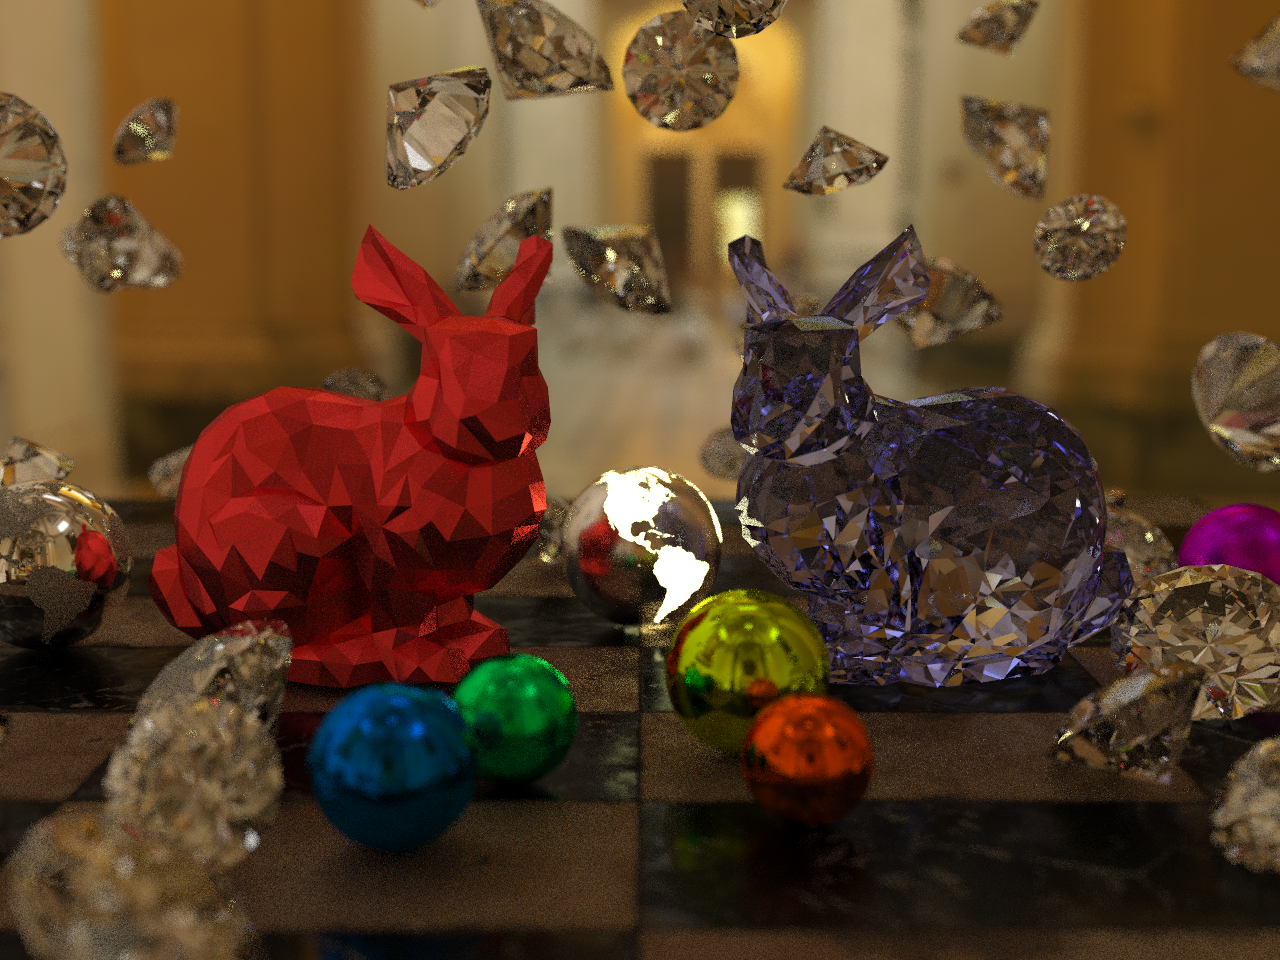
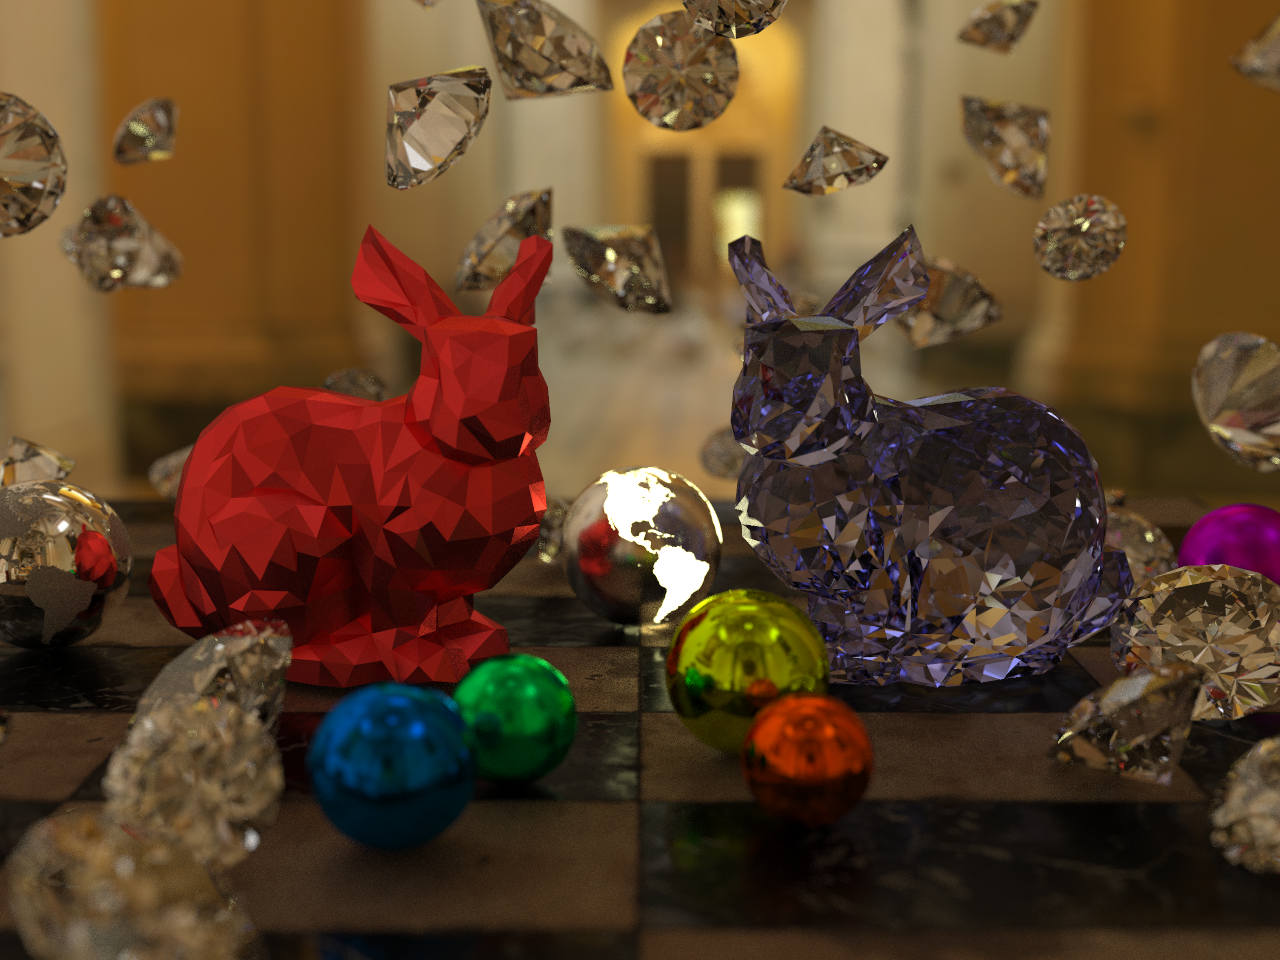
Add reached time limit finish case (62 sampling)

diff --git a/src/renderer.rs b/src/renderer.rs
@@ -47,7 +47,7 @@ pub trait Renderer: Sync {
                 accumulation_buf[p] += *acc;
             }
 
-            self.report_progress(&mut accumulation_buf, sampling, imgbuf);
+            if self.report_progress(&mut accumulation_buf, sampling, imgbuf) { break; }
         }
     }
 
@@ -65,7 +65,7 @@ pub trait Renderer: Sync {
         accumulation
     }
 
-    fn report_progress(&mut self, accumulation_buf: &mut Vec<Vector3>, sampling: u32, imgbuf: &mut ImageBuffer<Rgb<u8>, Vec<u8>>);
+    fn report_progress(&mut self, accumulation_buf: &mut Vec<Vector3>, sampling: u32, imgbuf: &mut ImageBuffer<Rgb<u8>, Vec<u8>>) -> bool;
 
     fn update_imgbuf(accumulation_buf: &mut Vec<Vector3>, sampling: u32, imgbuf: &mut ImageBuffer<Rgb<u8>, Vec<u8>>) {
         let num_of_pixel = imgbuf.width() * imgbuf.height();
@@ -126,9 +126,10 @@ impl Renderer for DebugRenderer {
         }
     }
 
-    fn report_progress(&mut self, accumulation_buf: &mut Vec<Vector3>, sampling: u32, imgbuf: &mut ImageBuffer<Rgb<u8>, Vec<u8>>) {
+    fn report_progress(&mut self, accumulation_buf: &mut Vec<Vector3>, sampling: u32, imgbuf: &mut ImageBuffer<Rgb<u8>, Vec<u8>>) -> bool {
         // on finish
         Self::update_imgbuf(accumulation_buf, sampling, imgbuf);
+        true
     }
 }
 
@@ -217,34 +218,27 @@ impl Renderer for PathTracingRenderer {
         accumulation
     }
 
-    fn report_progress(&mut self, accumulation_buf: &mut Vec<Vector3>, sampling: u32, imgbuf: &mut ImageBuffer<Rgb<u8>, Vec<u8>>) {
+    fn report_progress(&mut self, accumulation_buf: &mut Vec<Vector3>, sampling: u32, imgbuf: &mut ImageBuffer<Rgb<u8>, Vec<u8>>) -> bool {
         let now = time::now();
         let used = (now - self.begin).num_milliseconds() as f64 * 0.001;
         let used_percent = used / config::TIME_LIMIT_SEC as f64 * 100.0;
+        let from_last_sampling_sec = (now - self.last_report_progress).num_milliseconds() as f64 * 0.001;
 
-        println!("rendering: {}x{} sampled. used: {:.3} sec ({:.2} %).",
-                 sampling, config::SUPERSAMPLING * config::SUPERSAMPLING, used, used_percent);
-
-        // on interval time passed
-        let interval_time = (now - self.last_report_image).num_milliseconds() as f64 * 0.001;
-        if interval_time >= config::REPORT_INTERVAL_SEC {
-            // save progress image
-            let path = format!("progress_{:>03}.png", self.report_image_counter);
-            println!("output progress image: {}", path);
-            Self::save_progress_image(&path, accumulation_buf, sampling, imgbuf);
-            self.report_image_counter += 1;
-            self.last_report_image = now;
-        }
+        println!("rendering: {}x{} sampled (last {:.3} sec). total: {:.3} sec ({:.2} %).",
+                 sampling, config::SUPERSAMPLING * config::SUPERSAMPLING,
+                 from_last_sampling_sec,
+                 used, used_percent);
 
         // reached time limit
-        let offset = (now - self.last_report_progress).num_milliseconds() as f64 * 0.0011;// 時間超過を防ぐために1.1倍の余裕をもたせる
+        // 前フレームの所要時間から次のフレームが制限時間内に終るかを予測する。時間超過を防ぐために1.1倍に見積もる
+        let offset = from_last_sampling_sec * 1.1;
         if used + offset > config::TIME_LIMIT_SEC {
             let path = format!("progress_{:>03}.png", self.report_image_counter);
             println!("reached time limit");
             println!("output final image: {}", path);
             println!("remain: {:.3} sec.", config::TIME_LIMIT_SEC - used);
             Self::save_progress_image(&path, accumulation_buf, sampling, imgbuf);
-            process::exit(0);
+            return true;
         }
 
         // reached max sampling
@@ -254,9 +248,22 @@ impl Renderer for PathTracingRenderer {
             println!("output final image: {}", path);
             println!("remain: {:.3} sec.", config::TIME_LIMIT_SEC - used);
             Self::save_progress_image(&path, accumulation_buf, sampling, imgbuf);
+            return true;
+        }
+
+        // on interval time passed
+        let from_last_report_image_sec = (now - self.last_report_image).num_milliseconds() as f64 * 0.001;
+        if from_last_report_image_sec >= config::REPORT_INTERVAL_SEC {
+            // save progress image
+            let path = format!("progress_{:>03}.png", self.report_image_counter);
+            println!("output progress image: {}", path);
+            Self::save_progress_image(&path, accumulation_buf, sampling, imgbuf);
+            self.report_image_counter += 1;
+            self.last_report_image = now;
         }
 
         self.last_report_progress = now;
+        false
     }
 }
 

diff --git a/src/main.rs b/src/main.rs
@@ -56,7 +56,7 @@ fn init_scene_material_examples() -> (Camera, Scene) {
 
     let radius = 0.4;
 
-    let mut scene = Scene {
+    let scene = Scene {
         elements: vec![
             // 球体
             Box::new(Sphere {
@@ -421,7 +421,7 @@ fn main() {
         //let (width, height, sampling) = (800, 600, 5);// SVGA 480,000 pixel
         //let (width, height, sampling) = (800, 600, 50);// SVGA 480,000 pixel
         //let (width, height, sampling) = (1280, 960, 67);// QVGA 1,228,800 pixel for rtcamp5
-        let (width, height, sampling) = (1280, 960, 9);
+        let (width, height, sampling) = (1280, 960, 900);
         //let (width, height, sampling) = (1920, 1080, 1000);// FHD 2,073,600 pixel
         //let (width, height, sampling) = (1280, 720, 1000);// HD 921,600 pixel
 
@@ -429,7 +429,7 @@ fn main() {
         let mut renderer = PathTracingRenderer::new(sampling);
 
         tee(&mut f, &format!("resolution: {}x{}.", width, height));
-        tee(&mut f, &format!("sampling: {}x{} spp.", sampling, config::SUPERSAMPLING * config::SUPERSAMPLING));
+        tee(&mut f, &format!("max sampling: {}x{} spp.", sampling, config::SUPERSAMPLING * config::SUPERSAMPLING));
 
         let init_scene_begin = time::now();
         let (camera, scene) = init_scene_rtcamp5();
